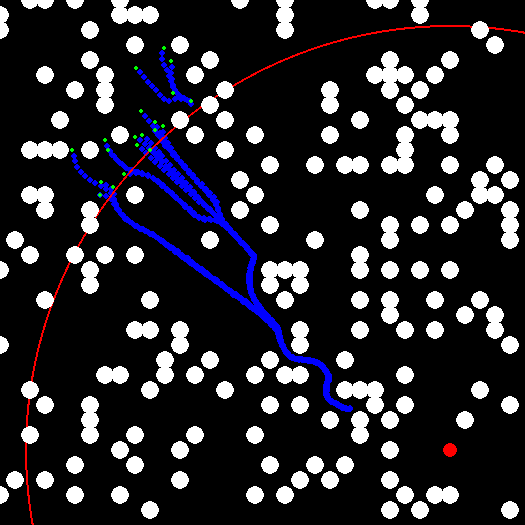
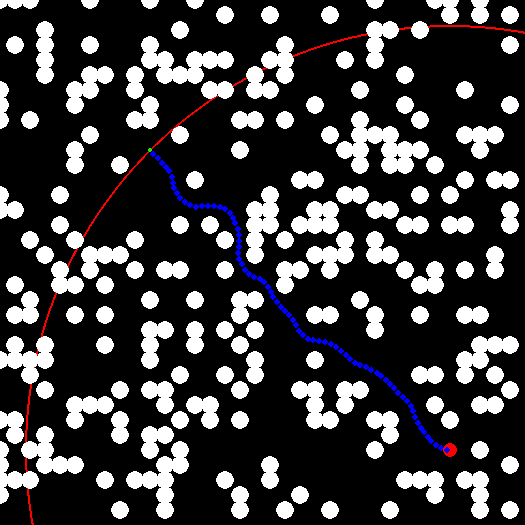
Added CR-BAPF*

diff --git a/agent_algorithms/cr_bapf_star.py b/agent_algorithms/cr_bapf_star.py
@@ -1,0 +1,53 @@
+import numpy as np
+
+def pos_update(agent, environment, setup): 
+    # Step 1: Isolate all obstacles that are within the view range
+    obstacles_in_range = []
+    for obstacle in environment.obstacles:
+        distance = ((agent.x - obstacle[0]) ** 2 + (agent.y - obstacle[1]) ** 2) ** 0.5
+        if distance < setup.range:
+            obstacles_in_range.append(obstacle)
+
+    # Step 2: Define potential field equation
+    def potential_field(x, y):
+        target_potential = - setup.alpha_t * np.exp(-setup.mu_t * ((setup.target_x - x)**2 + (setup.target_y - y)**2))
+        obstacle_potential = 0
+        for obstacle in obstacles_in_range:
+            distance_squared = (obstacle[0] - x)**2 + (obstacle[1] - y)**2
+            if distance_squared**0.5 < setup.obst_radius_inner:
+                obstacle_potential = float('inf')
+            elif distance_squared**0.5 < setup.obst_radius_outer:
+                obstacle_potential += setup.alpha_o * np.exp(-setup.mu_o * distance_squared)
+        return target_potential + obstacle_potential
+
+    # Step 3: Set bacteria points, find the minimum potential
+    bacteria_points = [(agent.x + setup.step_size * np.cos(2* np.pi * k / setup.N_bacteria), agent.y + setup.step_size * np.sin(2* np.pi * k / setup.N_bacteria)) for k in range(setup.N_bacteria)]
+    bacteria_potentials = [potential_field(x, y) for (x, y) in bacteria_points]
+    min_potential = min(bacteria_potentials)
+
+    # Step 4: Step to the best bacteria point (with random error), or stuck in local minimum in which case a random step is taken
+    if min_potential < potential_field(agent.x, agent.y) and agent.random_walk == 0:
+        selected_point = bacteria_points[bacteria_potentials.index(min_potential)]
+        new_x = np.random.normal(selected_point[0], setup.step_variance)
+        new_y = np.random.normal(selected_point[1], setup.step_variance)
+        return new_x, new_y
+    else: # Local minimum, searching for a random step that does not collide with an obstacle
+        random_steps = np.random.permutation(bacteria_points)
+        for random_step in random_steps:
+            searching = False
+            for obstacle in obstacles_in_range:
+                distance = ((random_step[0] - obstacle[0]) ** 2 + (random_step[1] - obstacle[1]) ** 2) ** 0.5
+                if distance < (setup.obst_radius_inner + setup.agent_radius):
+                    searching = True
+            if not searching: # If the random step does not collide with an obstacle
+                new_x = np.random.normal(random_step[0], setup.step_variance)
+                new_y = np.random.normal(random_step[1], setup.step_variance)
+                agent.random_walk += 1
+                if agent.random_walk == setup.random_walk_length:
+                    agent.random_walk = 0
+                return new_x, new_y
+        # If none of the steps work, because they all collide with an obstacle (incredibly rare if not impossible)
+        agent.local_minimum = True
+        return agent.x, agent.y
+
+    

diff --git a/Agent.py b/Agent.py
@@ -1,6 +1,7 @@
 from agent_algorithms import capf 
 from agent_algorithms import bapf
 from agent_algorithms import cr_bapf
+from agent_algorithms import cr_bapf_star
 from agent_algorithms import rapf 
 from agent_algorithms import a_star 
 import random 
@@ -32,6 +33,9 @@ class Agent:
 
         self.artificial_obstacles = []      #List of all artificial obstacles locations
         self.radius = setup.agent_radius
+
+        # For CR-BAPF*
+        self.random_walk = 0
 
         #--------Determine initial agent position-----------------
 
@@ -104,7 +108,7 @@ class Agent:
         if self.algorithm == 1: 
             self.x, self.y = bapf.pos_update(self, environment, setup)
         if self.algorithm == 2: 
-            self.x, self.y = cr_bapf.pos_update(self, environment, setup)
+            self.x, self.y = cr_bapf_star.pos_update(self, environment, setup)
         if self.algorithm == 3: 
             self.x, self.y = rapf.pos_update(self, environment, setup)
         if self.algorithm == 4:

diff --git a/Setup.py b/Setup.py
@@ -21,7 +21,8 @@ class Setup:
         #0: CAPF 
         #1: BAPF
         self.N_bacteria = 60
-        #2: CR-BAPF
+        #2: CR-BAPF*
+        self.random_walk_length = 3
         #3: RAPF
         self.N_bacteria_RAPF = 8
         #4: A*
